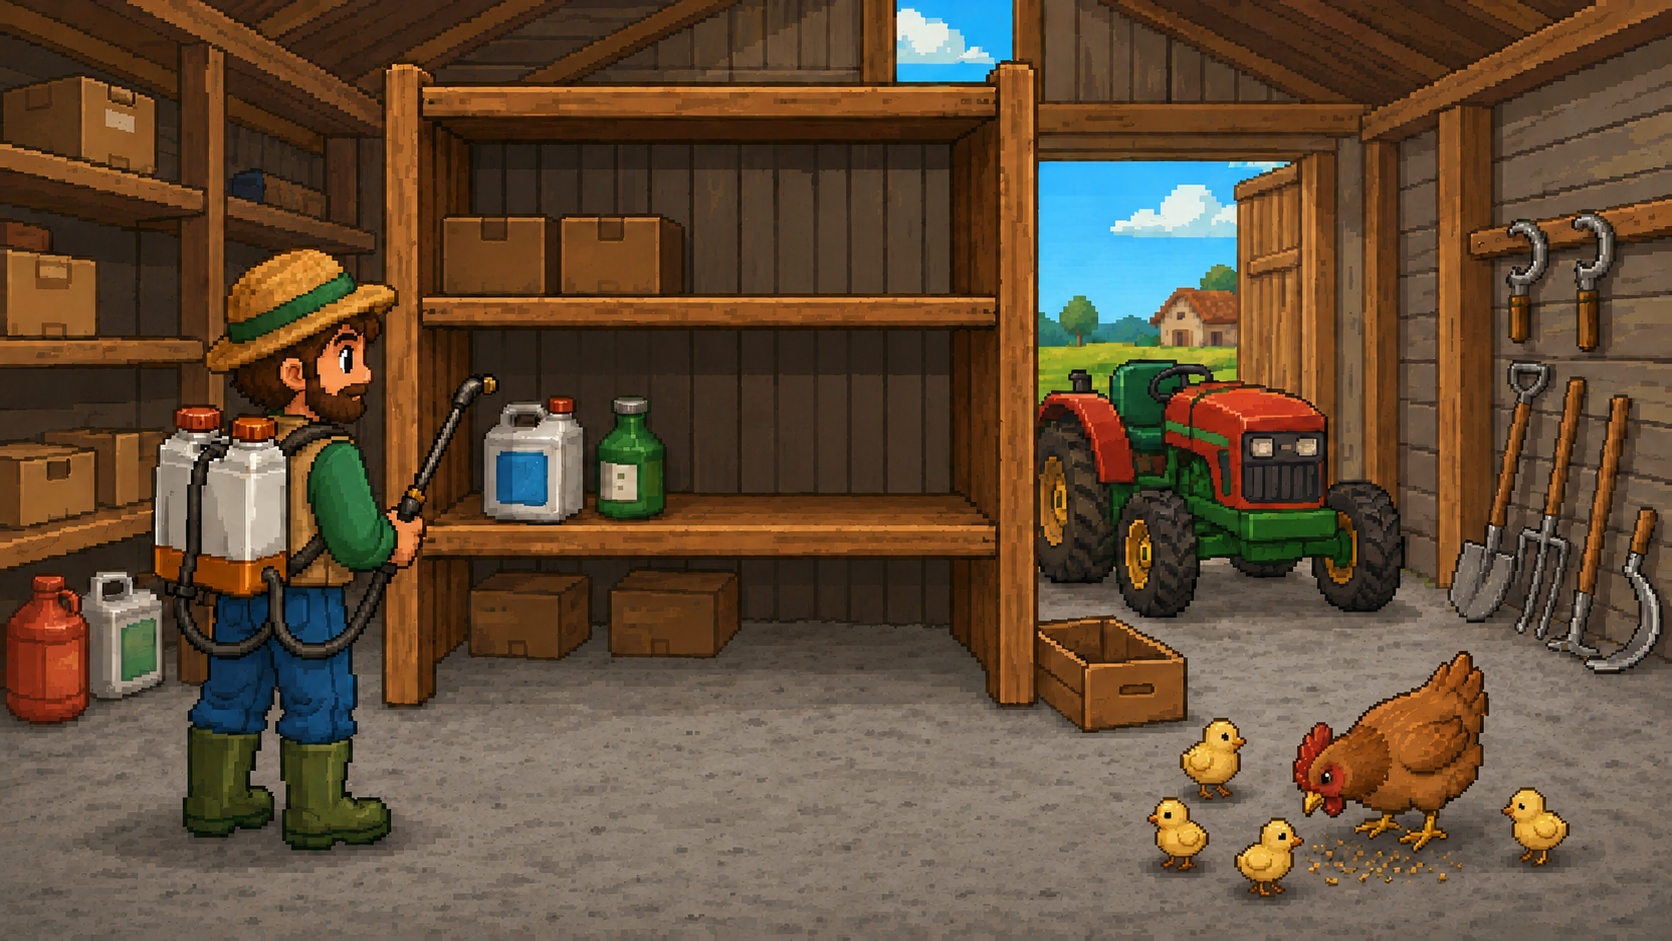
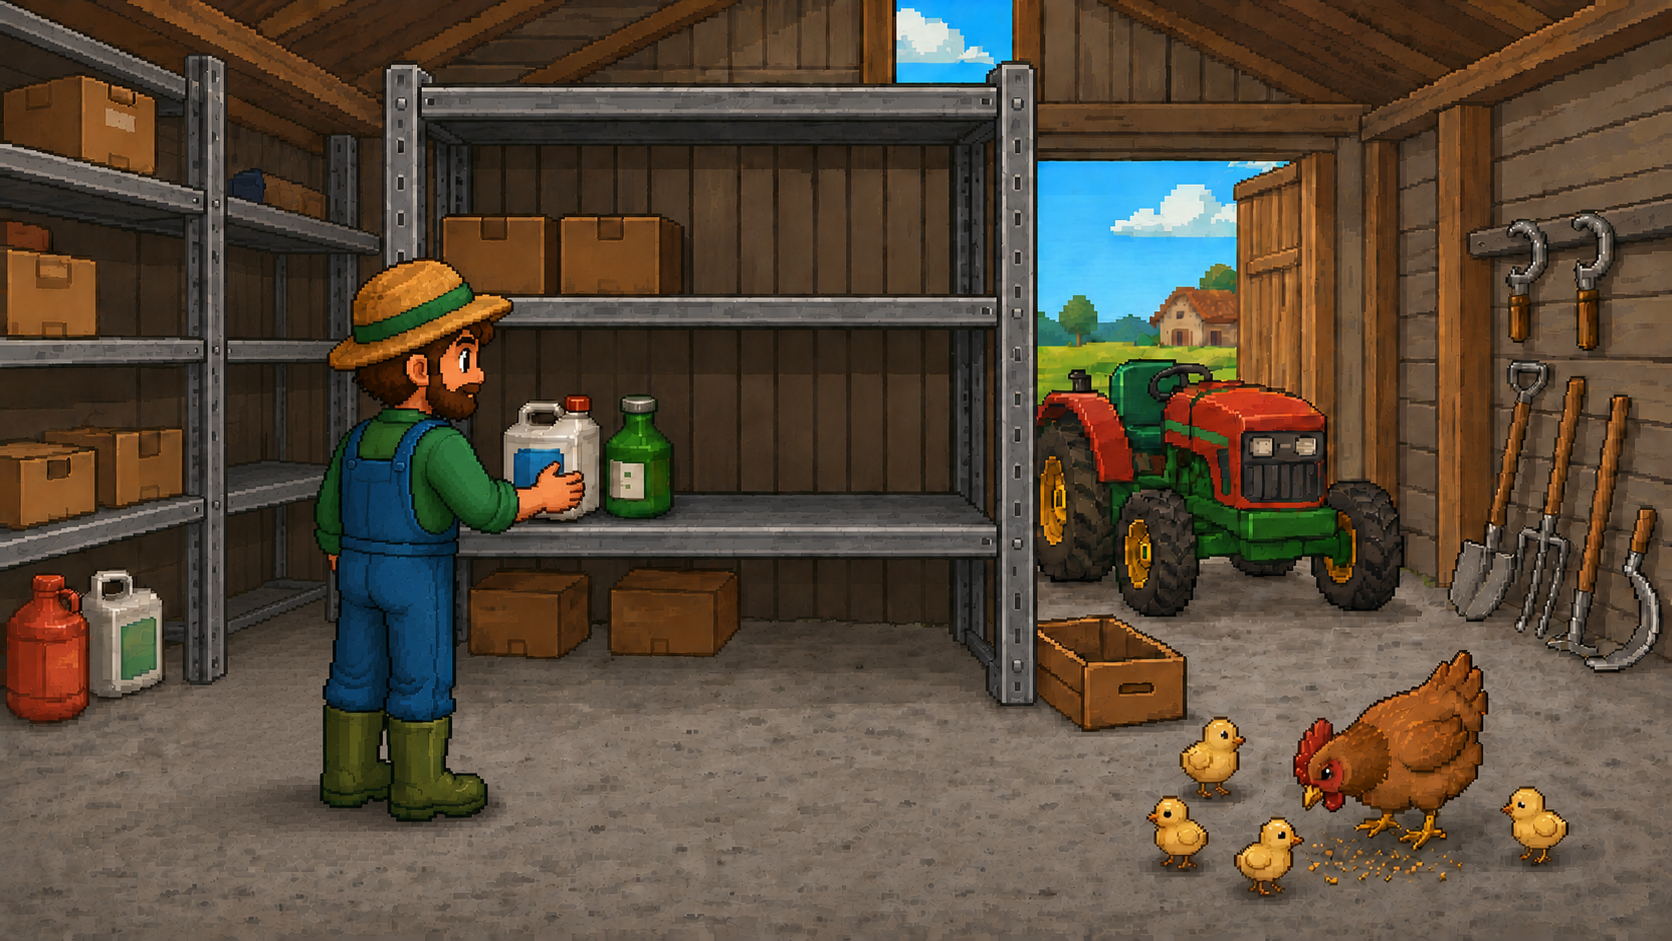
feat: update tilemap objects and success messages for improved gameplay experience

diff --git a/src/game/scenes/SpotErrorScene.ts b/src/game/scenes/SpotErrorScene.ts
@@ -17,7 +17,7 @@ interface SpotSceneData {
 interface HotspotRuntime {
   id: string;
   message: string;
-  rect: Phaser.GameObjects.Rectangle;
+  rects: Phaser.GameObjects.Rectangle[];
   marker?: Phaser.GameObjects.Text;
   found: boolean;
 }
@@ -149,7 +149,9 @@ export class SpotErrorScene extends MiniGameScene {
       });
     });
 
-    this.hotspots = objectLayer.objects.map((object) => {
+    const hotspotMap = new Map<string, HotspotRuntime>();
+
+    objectLayer.objects.forEach((object) => {
       const id = object.name ?? `hotspot_${object.id}`;
       const message = this.getStringProperty(object, "successMessage", "Muito bem, você encontrou um erro.");
       const mapped = this.mapToImageBounds(
@@ -169,14 +171,22 @@ export class SpotErrorScene extends MiniGameScene {
 
       rect.on("pointerdown", () => this.handleHotspot(id, message));
 
-      const hotspot: HotspotRuntime = { id, message, rect, found: false };
-      const actionId = `hotspot:${id}`;
+      let hotspot = hotspotMap.get(id);
+      if (!hotspot) {
+        hotspot = { id, message, rects: [], found: false };
+        hotspotMap.set(id, hotspot);
+      }
+
+      hotspot.rects.push(rect);
+    });
+
+    this.hotspots = [...hotspotMap.values()];
+    this.hotspots.forEach((hotspot) => {
+      const actionId = `hotspot:${hotspot.id}`;
       if (gameStore.wasActionScored(this.configData.miniGameId, actionId)) {
         hotspot.found = true;
         this.applyFoundStyle(hotspot);
       }
-
-      return hotspot;
     });
 
     this.updateCounter();
@@ -233,10 +243,14 @@ export class SpotErrorScene extends MiniGameScene {
   }
 
   private applyFoundStyle(hotspot: HotspotRuntime): void {
-    hotspot.rect.setFillStyle(0x16a34a, 0.32);
-    hotspot.rect.setStrokeStyle(2, 0x166534, 1);
+    hotspot.rects.forEach((rect) => {
+      rect.setFillStyle(0x16a34a, 0.32);
+      rect.setStrokeStyle(2, 0x166534, 1);
+    });
+
+    const markerPosition = this.getHotspotMarkerPosition(hotspot);
     hotspot.marker = this.add
-      .text(hotspot.rect.x, hotspot.rect.y, "OK", {
+      .text(markerPosition.x, markerPosition.y, "OK", {
         fontFamily: "'Segoe UI', 'Trebuchet MS', sans-serif",
         fontSize: "22px",
         color: "#ffffff",
@@ -244,6 +258,15 @@ export class SpotErrorScene extends MiniGameScene {
       })
       .setOrigin(0.5)
       .setDepth(12);
+  }
+
+  private getHotspotMarkerPosition(hotspot: HotspotRuntime): Phaser.Math.Vector2 {
+    const bounds = hotspot.rects.map((rect) => rect.getBounds());
+    const left = Math.min(...bounds.map((rect) => rect.left));
+    const right = Math.max(...bounds.map((rect) => rect.right));
+    const top = Math.min(...bounds.map((rect) => rect.top));
+    const bottom = Math.max(...bounds.map((rect) => rect.bottom));
+    return new Phaser.Math.Vector2((left + right) * 0.5, (top + bottom) * 0.5);
   }
 
   private showCompletion(): void {

diff --git a/src/game/scenes/PauseScene.ts b/src/game/scenes/PauseScene.ts
@@ -35,7 +35,7 @@ export class PauseScene extends Phaser.Scene {
     const height = this.scale.height;
     const uiScale = Phaser.Math.Clamp(Math.min(width / 1280, height / 720), 0.68, 1.22);
     const panelWidth = Phaser.Math.Clamp(width * 0.36, 360, 520);
-    const panelHeight = Phaser.Math.Clamp(height * 0.44, 300, 380);
+    const panelHeight = Phaser.Math.Clamp(height * 0.54, 360, 450);
     const centerX = width * 0.5;
     const centerY = height * 0.5;
     const buttonWidth = Math.min(panelWidth - 72, 360);
@@ -62,7 +62,7 @@ export class PauseScene extends Phaser.Scene {
       })
       .setOrigin(0.5);
 
-    const firstY = centerY - buttonHeight * 0.2;
+    const firstY = centerY - buttonHeight - gap;
     this.addPauseButton(createButton(this, centerX, firstY, "Continuar", () => this.resumeGame(), {
       width: buttonWidth,
       height: buttonHeight,
@@ -75,7 +75,19 @@ export class PauseScene extends Phaser.Scene {
       depth: 10
     }));
 
-    this.addPauseButton(createButton(this, centerX, firstY + buttonHeight + gap, "Menu Principal", () => this.exitToMenu(), {
+    this.addPauseButton(createButton(this, centerX, firstY + buttonHeight + gap, "Configuracoes", () => this.openSettings(), {
+      width: buttonWidth,
+      height: buttonHeight,
+      backgroundColor: 0x4338ca,
+      hoverBackgroundColor: 0x4f46e5,
+      borderColor: 0xc7d2fe,
+      hoverBorderColor: 0xe0e7ff,
+      textColor: "#eef2ff",
+      fontSize: `${Math.floor(28 * uiScale)}px`,
+      depth: 10
+    }));
+
+    this.addPauseButton(createButton(this, centerX, firstY + (buttonHeight + gap) * 2, "Menu Principal", () => this.exitToMenu(), {
       width: buttonWidth,
       height: buttonHeight,
       backgroundColor: 0xfacc15,
@@ -146,6 +158,15 @@ export class PauseScene extends Phaser.Scene {
     this.audio.play("click");
     this.scene.resume(SCENE_KEYS.map);
     this.scene.stop();
+  }
+
+  private openSettings(): void {
+    if (this.isClosing) return;
+
+    this.audio.play("click");
+    this.scene.launch(SCENE_KEYS.settings, { returnTo: SCENE_KEYS.pause });
+    this.scene.bringToTop(SCENE_KEYS.settings);
+    this.scene.pause();
   }
 
   private exitToMenu(): void {

diff --git a/src/game/scenes/SettingsScene.ts b/src/game/scenes/SettingsScene.ts
@@ -4,6 +4,10 @@ import { GameAudio } from "../audio/GameAudio";
 import { MENU_BACKGROUND, SCENE_KEYS } from "../constants";
 import { createButton, type GameButton } from "../ui/Button";
 
+interface SettingsSceneData {
+  returnTo?: string;
+}
+
 export class SettingsScene extends Phaser.Scene {
   private audio!: GameAudio;
   private backButton?: GameButton;
@@ -12,12 +16,14 @@ export class SettingsScene extends Phaser.Scene {
   private sliderKnob!: Phaser.GameObjects.Arc;
   private sliderLeft = 0;
   private sliderWidth = 0;
+  private returnSceneKey: string = SCENE_KEYS.home;
 
   constructor() {
     super(SCENE_KEYS.settings);
   }
 
-  create(): void {
+  create(data: SettingsSceneData = {}): void {
+    this.returnSceneKey = data.returnTo === SCENE_KEYS.pause ? SCENE_KEYS.pause : SCENE_KEYS.home;
     this.audio = new GameAudio(this);
     this.renderSettings();
     this.setupKeyboard();
@@ -81,10 +87,7 @@ export class SettingsScene extends Phaser.Scene {
 
     this.drawVolumeSlider(panelX, panelY + panelHeight * 0.12, panelWidth * 0.68, uiScale);
 
-    this.backButton = createButton(this, panelX, panelY + panelHeight * 0.34, "Voltar", () => {
-      this.audio.play("click");
-      this.scene.start(SCENE_KEYS.home);
-    }, {
+    this.backButton = createButton(this, panelX, panelY + panelHeight * 0.34, "Voltar", () => this.closeSettings(), {
       width: Math.floor(220 * uiScale),
       height: Math.floor(56 * uiScale),
       backgroundColor: 0x166534,
@@ -189,6 +192,18 @@ export class SettingsScene extends Phaser.Scene {
     keyEnter.on("down", () => this.backButton?.trigger());
     keySpace.on("down", () => this.backButton?.trigger());
     keyEsc.on("down", () => this.backButton?.trigger());
+  }
+
+  private closeSettings(): void {
+    this.audio.play("click");
+
+    if (this.returnSceneKey === SCENE_KEYS.pause) {
+      this.scene.resume(SCENE_KEYS.pause);
+      this.scene.stop();
+      return;
+    }
+
+    this.scene.start(SCENE_KEYS.home);
   }
 
   private getUiScale(width: number, height: number): number {

diff --git a/src/game/audio/GameAudio.ts b/src/game/audio/GameAudio.ts
@@ -18,7 +18,7 @@ const VOLUME_BY_CUE: Record<Cue, number> = {
   complete: 0.5
 };
 
-const DEFAULT_MUSIC_VOLUME = 0.35;
+const DEFAULT_MUSIC_VOLUME = 0.05;
 
 export class GameAudio {
   private static backgroundMusic?: Phaser.Sound.BaseSound;
@@ -65,8 +65,8 @@ export class GameAudio {
       return;
     }
 
-    const sound = scene.sound as Phaser.Sound.BaseSoundManager & { unlocked?: boolean };
-    if (sound.unlocked === false) {
+    const sound = scene.sound as Phaser.Sound.BaseSoundManager & { locked?: boolean };
+    if (sound.locked === true) {
       if (!GameAudio.unlockListenerAttached) {
         GameAudio.unlockListenerAttached = true;
         scene.sound.once(Phaser.Sound.Events.UNLOCKED, () => {

diff --git a/src/game/scenes/BootScene.ts b/src/game/scenes/BootScene.ts
@@ -92,8 +92,8 @@ export class BootScene extends Phaser.Scene {
       frameHeight: PLAYER_SPRITE_SHEET.frameHeight
     });
 
-    this.load.tilemapTiledJSON("map-lavoura", "/tiled/spot_lavoura.tmj");
-    this.load.tilemapTiledJSON("map-deposito", "/tiled/spot_deposito.tmj");
+    this.load.tilemapTiledJSON("map-lavoura", "/tiled/spot_lavoura.tmj?v=lavoura-20260623-2");
+    this.load.tilemapTiledJSON("map-deposito", "/tiled/spot_deposito.tmj?v=galpao-20260623-2");
     this.load.tilemapTiledJSON("map-packaging", "/tiled/packaging_journey.tmj");
     this.load.tilemapTiledJSON("map-dressup", "/tiled/dress_up.tmj");
 
